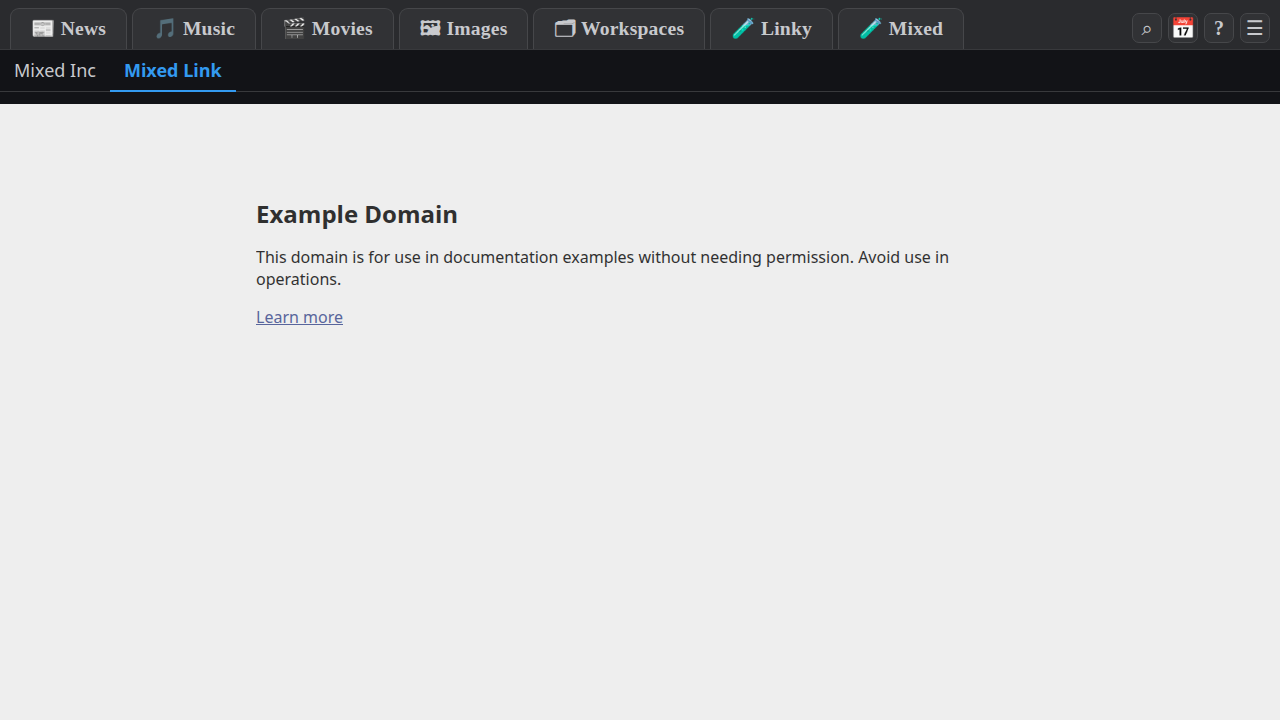
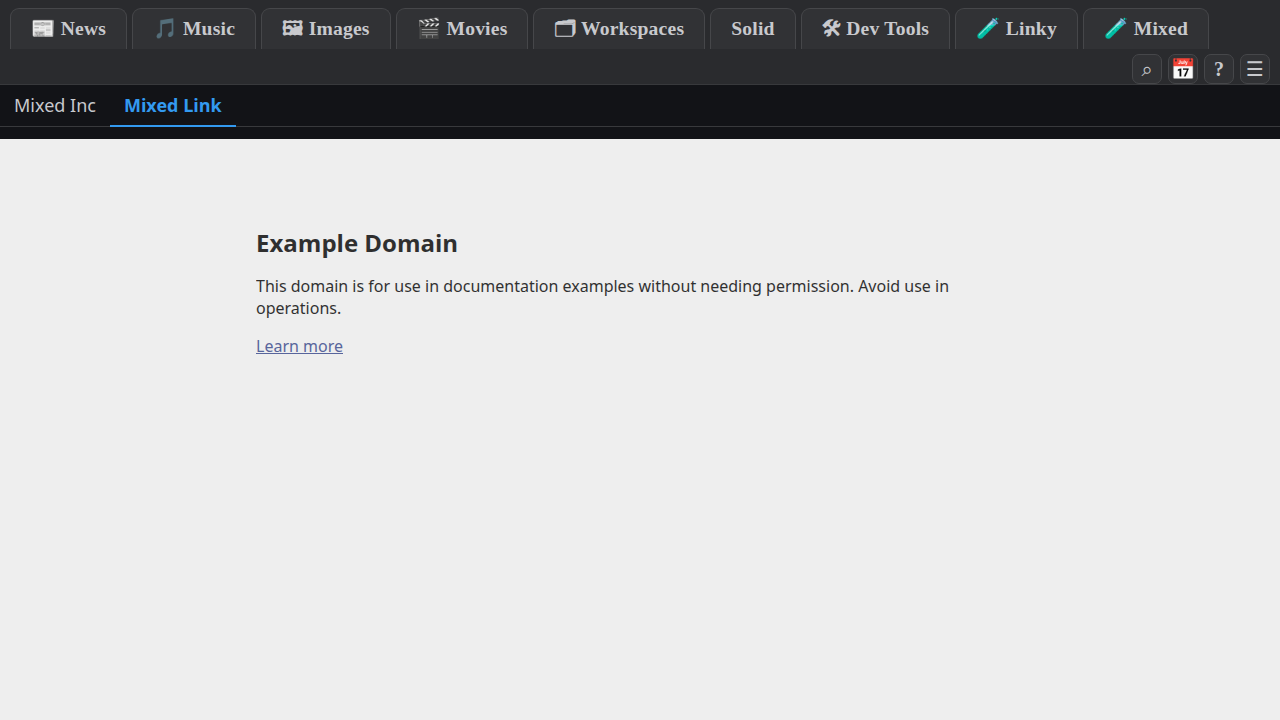
docs: README packaging section — release/ output, auto pod root, AppImage cmd
Document the data-kitchen-home pod-root default next to the executable
(DK_POD_ROOT override), the release/ artifact dir, and the AppImage-only
build command. Refresh two smoke-test screenshots regenerated by this
session's runs.

Changed region(s): [[0.0, 0.0, 1.0, 0.2139], [0.1875, 0.275, 0.75, 0.4889], [0.2188, 0.0306, 0.4062, 0.0611]]

diff --git a/README.md b/README.md
@@ -194,13 +194,23 @@ node claude/smoke-tests/verify-link-tabs.mjs         # ui:Link submenus end to e
 ## Packaging
 
 ```bash
-npm run dist        # electron-builder (linux: AppImage/deb/rpm)
+npm run dist                            # electron-builder, all linux targets (AppImage/deb/rpm)
+npx electron-builder --linux AppImage   # just the AppImage
 ```
 
+Artifacts land in `release/` (kept out of `dist/` so a build never bundles
+its own previous output) and are named with underscores
+(`Solid_Data_Kitchen-<version>.AppImage`).
+
 `asar` is off: the bundled servers are spawned as plain node processes and
-read their trees from disk. Note: an AppImage mounts read-only, so in-app
-saves (favourites, settings, Manage Plugins / Manage Menus) need a writable root — set
-`DK_POD_ROOT` to point the pivot server at a writable copy of the data.
+read their trees from disk. An AppImage mounts **read-only**, so in-app saves
+(favourites, settings, Manage Plugins / Manage Menus) need a writable pod
+root. The packaged app provides one automatically: on launch it creates a
+**`data-kitchen-home/` folder next to the executable** (the portable-app
+pattern — app and data travel together) and seeds the definition into it; if
+that spot isn't writable it falls back to Electron's `userData`. Override the
+location with `DK_POD_ROOT`. In dev (unpackaged) the pod root is the repo, so
+this is a no-op.
 
 ## Provenance
 